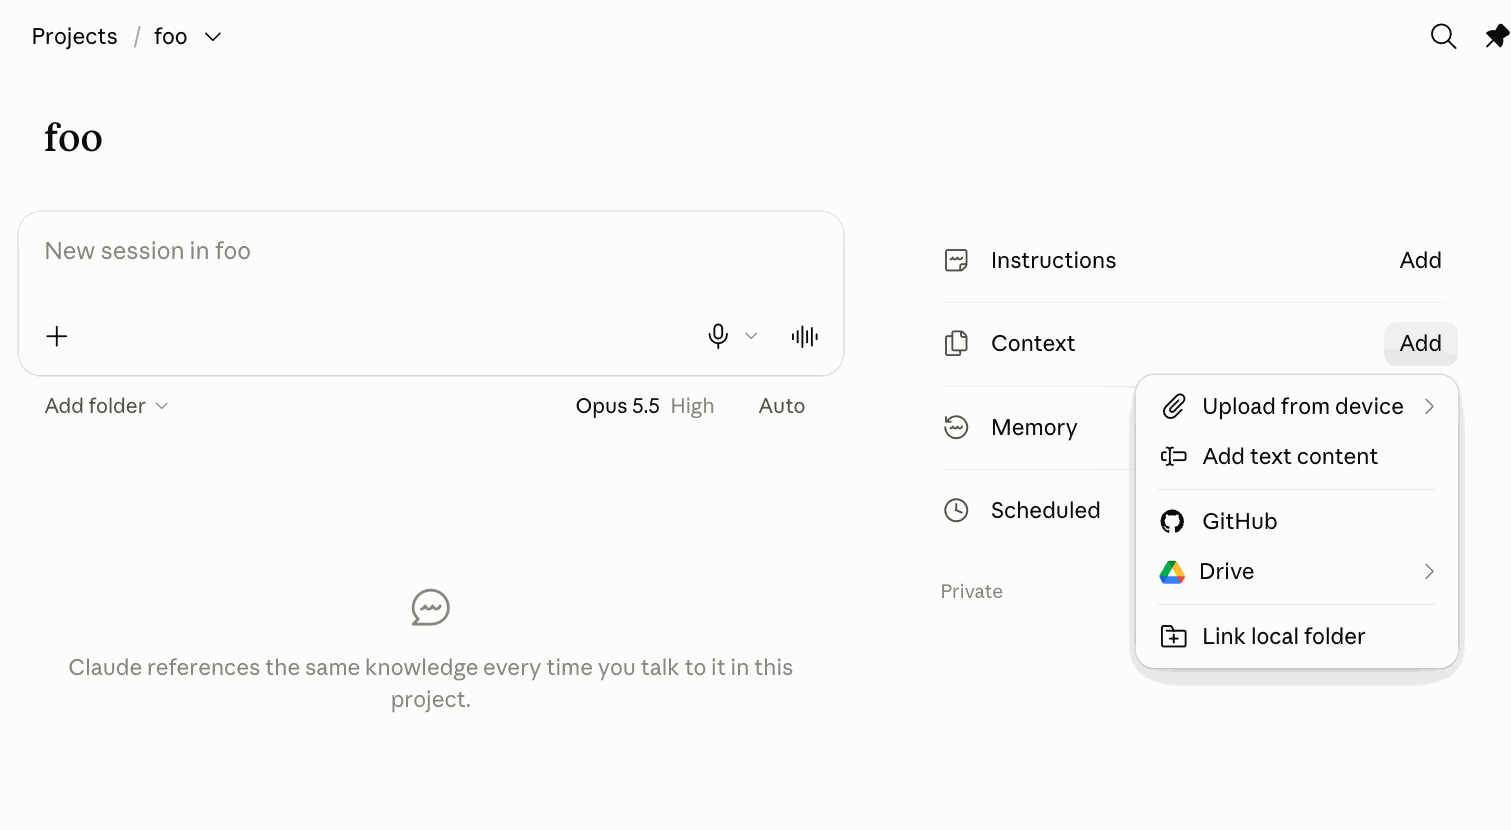
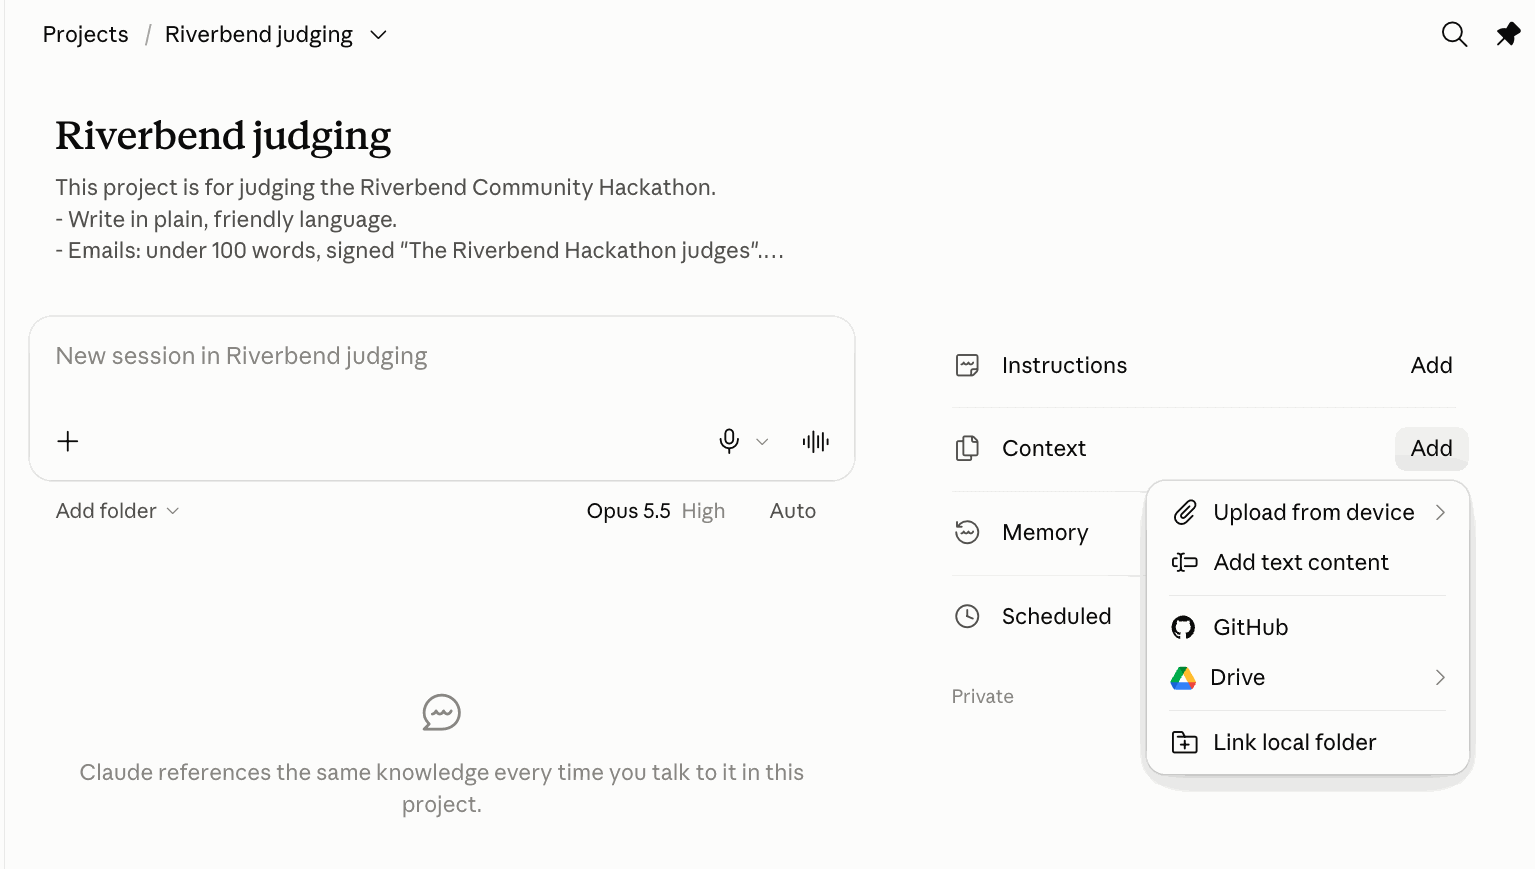
DIY 4: project and folder steps from the real app, with screenshots

diff --git a/diy-04-cowork/README.md b/diy-04-cowork/README.md
@@ -56,35 +56,43 @@ Open `~/atc-diy/hackathon-judging/submissions` in Finder or File Explorer. Seven
 In the **Claude desktop app** (the browser can't link folders on your computer):
 
 1. In the left sidebar, click the **+** next to **Projects**.
-2. A **Create a project** box opens. Under *What are you working on?* type **Riverbend judging**. Leave the rest empty and click **Create project**. (Don't use **Add context** in this box: it only takes files, so you can open the folder but never choose it.)
-3. The project's page opens. On the right, next to **Instructions**, click **Add**, paste the **project instructions** from above, and save.
-4. Next to **Context**, click **Add** and choose **Link local folder** (at the bottom of the menu).
+2. A **Create a project** box opens. Under *What are you working on?* type **Riverbend judging**. Paste the **project instructions** from above into *What are you trying to achieve?* Don't use **Add context** in this box: it only takes files, so you can open the folder but never choose it. Click **Create project**.
+
+   ![Create a project: the name, and the project instructions pasted into "What are you trying to achieve?"](images/02-create-project.png)
+
+3. The project's page opens, with your rules under its name. On the right, next to **Context**, click **Add** and choose **Link local folder** (at the bottom of the menu).
 
    ![The project page: Context, Add, then Link local folder at the bottom of the menu](images/02-link-folder.png)
 
-5. A Finder window opens. You want the **`hackathon-judging`** folder itself, the one that *contains* `event.md`, `rubric.md` and `submissions`. Don't pick `submissions`.
+4. A Finder window opens. You want the **`hackathon-judging`** folder itself, the one that *contains* `event.md`, `rubric.md` and `submissions`. Don't pick `submissions`.
    1. Press **Cmd+Shift+G**, type `~/atc-diy`, and press **Return**. You now see `hackathon-judging` in the list.
    2. Click `hackathon-judging` **once** so it's highlighted. **Don't double-click it**: that opens the folder to show what's inside, instead of choosing it.
    3. Click **Open**.
-   4. If macOS asks whether Claude can access files in that folder, click **Allow** (or **OK**).
+5. Claude asks **Allow Claude to change files in "hackathon-judging"?** (now, or the first time it saves a file). Click **Allow**, or **Always allow** so it stops asking for this folder. It needs this to save the spreadsheet and the drafts.
 
-**Check it worked:** in the project's message box (*New session in Riverbend judging*), ask *"What files are in this folder?"* It should list `event.md`, `rubric.md`, the `submissions` folder and `brand`. If it says it has no folder, the folder didn't link; go back to step 4.
+   ![Allow Claude to change files in "hackathon-judging"? Cancel, Always allow, Allow](images/02-allow-changes.png)
+
+**Check it worked:** in the project's message box (*New session in Riverbend judging*), ask *"What files are in this folder?"* It should list `event.md`, `rubric.md`, and the `brand` and `submissions` folders. If it says it has no folder, the folder didn't link; go back to step 3.
+
+![Claude lists the files it can see in hackathon-judging](images/02-check-folder.png)
 
 Notice what's in the rules: how emails are signed, how long they can be, and **never send anything**. You won't repeat any of it in the prompt.
 
 ### 3. Hand it the job
 
-Start a task in the project. If your message box shows a choice between **Chat** and **Cowork**, pick **Cowork**. Then paste:
+Start a new session from the project's page (the *New session in Riverbend judging* box). If you see a choice between **Chat** and **Cowork**, pick **Cowork**. Then paste:
 
 ```text
 Judge the hackathon submissions in this folder using rubric.md and event.md. Make a spreadsheet that scores each submission with a one-line reason, pick the three projects for Demo Night, and draft short emails to every team in a drafts folder. Flag anything odd.
 ```
 
-**What you should see:** a **task list** appears before any work happens. That's its plan, and your chance to catch a misunderstanding before seven wrong emails. Then it opens a PDF, two Word files and four markdown files. If it asks to approve something, read it, then approve.
+**What you should see:** a line saying what it's about to do, then a grey line like *Used Computer, ran a command on your computer, and 2 more steps* (click it to see each step), then a summary. Along the way it reads a PDF, two Word files and four markdown files. It may also show a short task list first: that's its plan, and your chance to catch a misunderstanding before seven wrong emails. If it asks to approve something, read it, then approve.
+
+![The task's summary: three Demo Night picks, and nothing sent](images/03-summary.png)
 
 ### 4. Check the payoff
 
-When it finishes, read the summary. It should flag the three traps (see the answers at the bottom if you want to check), and pick three projects for Demo Night.
+When it finishes, read the summary. It should flag the three traps (see the answers at the bottom if you want to check), and pick three projects for Demo Night. Seven submissions but only **six** emails is right: two of the entries come from the same team.
 
 Then open the **spreadsheet** it made in `~/atc-diy/hackathon-judging/` (something like `hackathon-scores.xlsx` or `scores.xlsx`): one row per submission, a score and a reason, and a note on the ones that aren't eligible. Open one file in `~/atc-diy/hackathon-judging/drafts/`.
 
@@ -127,6 +135,7 @@ python3 setup_diy.py 4   # from the top of this repo
 ## If something goes wrong
 
 - **Can't add a folder:** check you're in the **desktop app**, not the browser. Link it from the **project's page**: **Context → Add → Link local folder**. The **Add context** button in the *Create a project* box and **Upload from device** only take files. In the Finder window, choose `hackathon-judging` with a **single click** and then **Open**; a double-click just opens the folder, and choosing `submissions` gives Claude only part of the files.
+- **The emails ignore the rules** (no signature, too long): on the project page, click **Add** next to **Instructions**, paste the same project instructions there, and run step 3 again in a new session.
 - **It misses a trap:** ask, *"Are any of these the same project?"* or *"Were all of these on time?"* It will find it, and that's an honest lesson: check its work.
 - **It picks a different three:** fine, as long as the reasons come from your rubric and none of the three is ineligible.
 - **It offers to send an email:** say no. No email is connected and your rules say drafts only.
